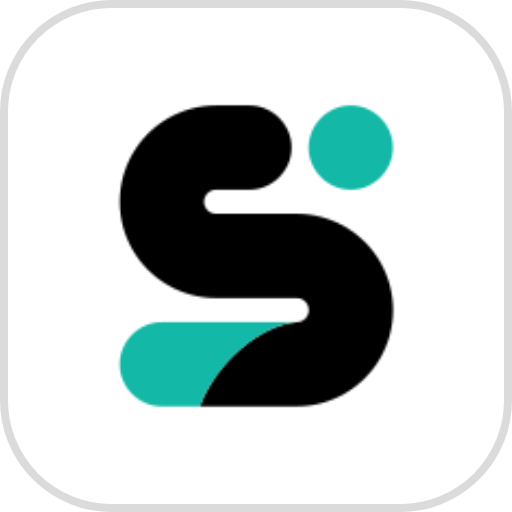
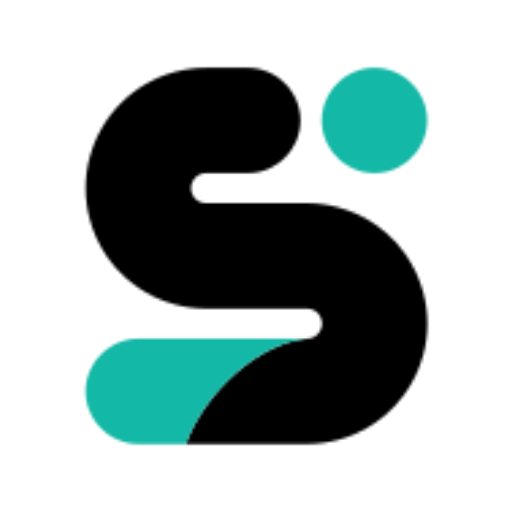
パソコン用アイコン：マークを大きく、縁の線をなくし、角の丸みを控えめに

diff --git a/sw.js b/sw.js
@@ -1,7 +1,7 @@
 // シュウカン：オフラインでも開けるようにするための Service Worker
 // 本体（index.html）は「ネット優先」：つながるときは常に最新版、つながらないときは保存版を出す
-const CACHE = 'shukan-v5';
-const CORE = ['./', './index.html', './manifest.webmanifest', './icon-192.png?v=3', './icon-512.png?v=3', './icon-180.png'];
+const CACHE = 'shukan-v6';
+const CORE = ['./', './index.html', './manifest.webmanifest', './icon-192.png?v=4', './icon-512.png?v=4', './icon-180.png'];
 
 self.addEventListener('install', e => {
   e.waitUntil(caches.open(CACHE).then(c => c.addAll(CORE.map(u => new Request(u, { cache: 'reload' })))   // ブラウザの一時保存（古い版）を使わず、必ずサーバーから取り直す).then(() => self.skipWaiting()));
